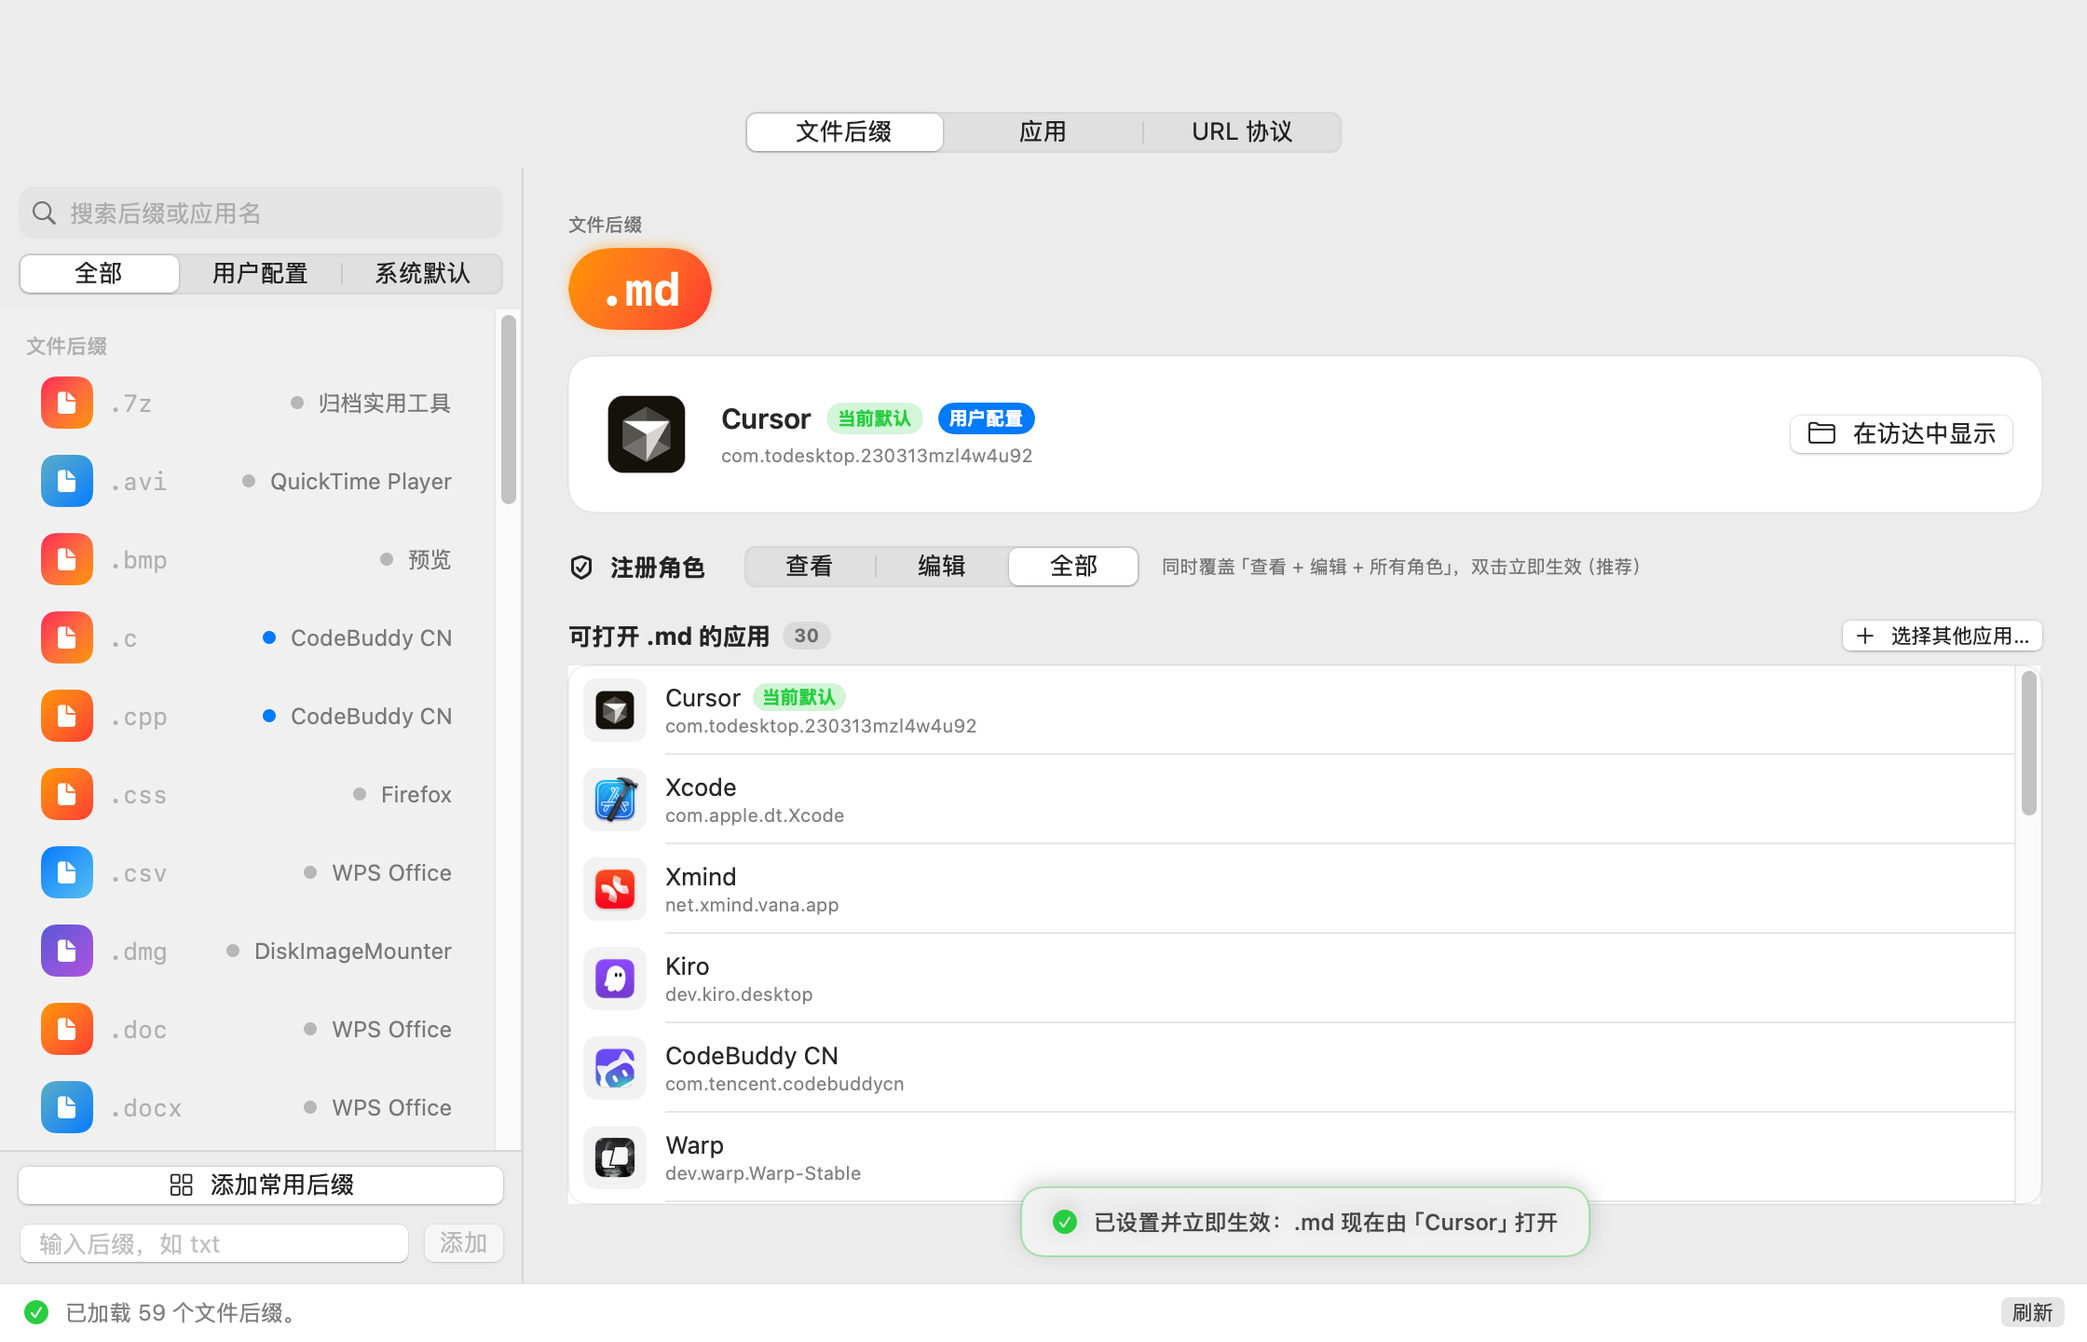
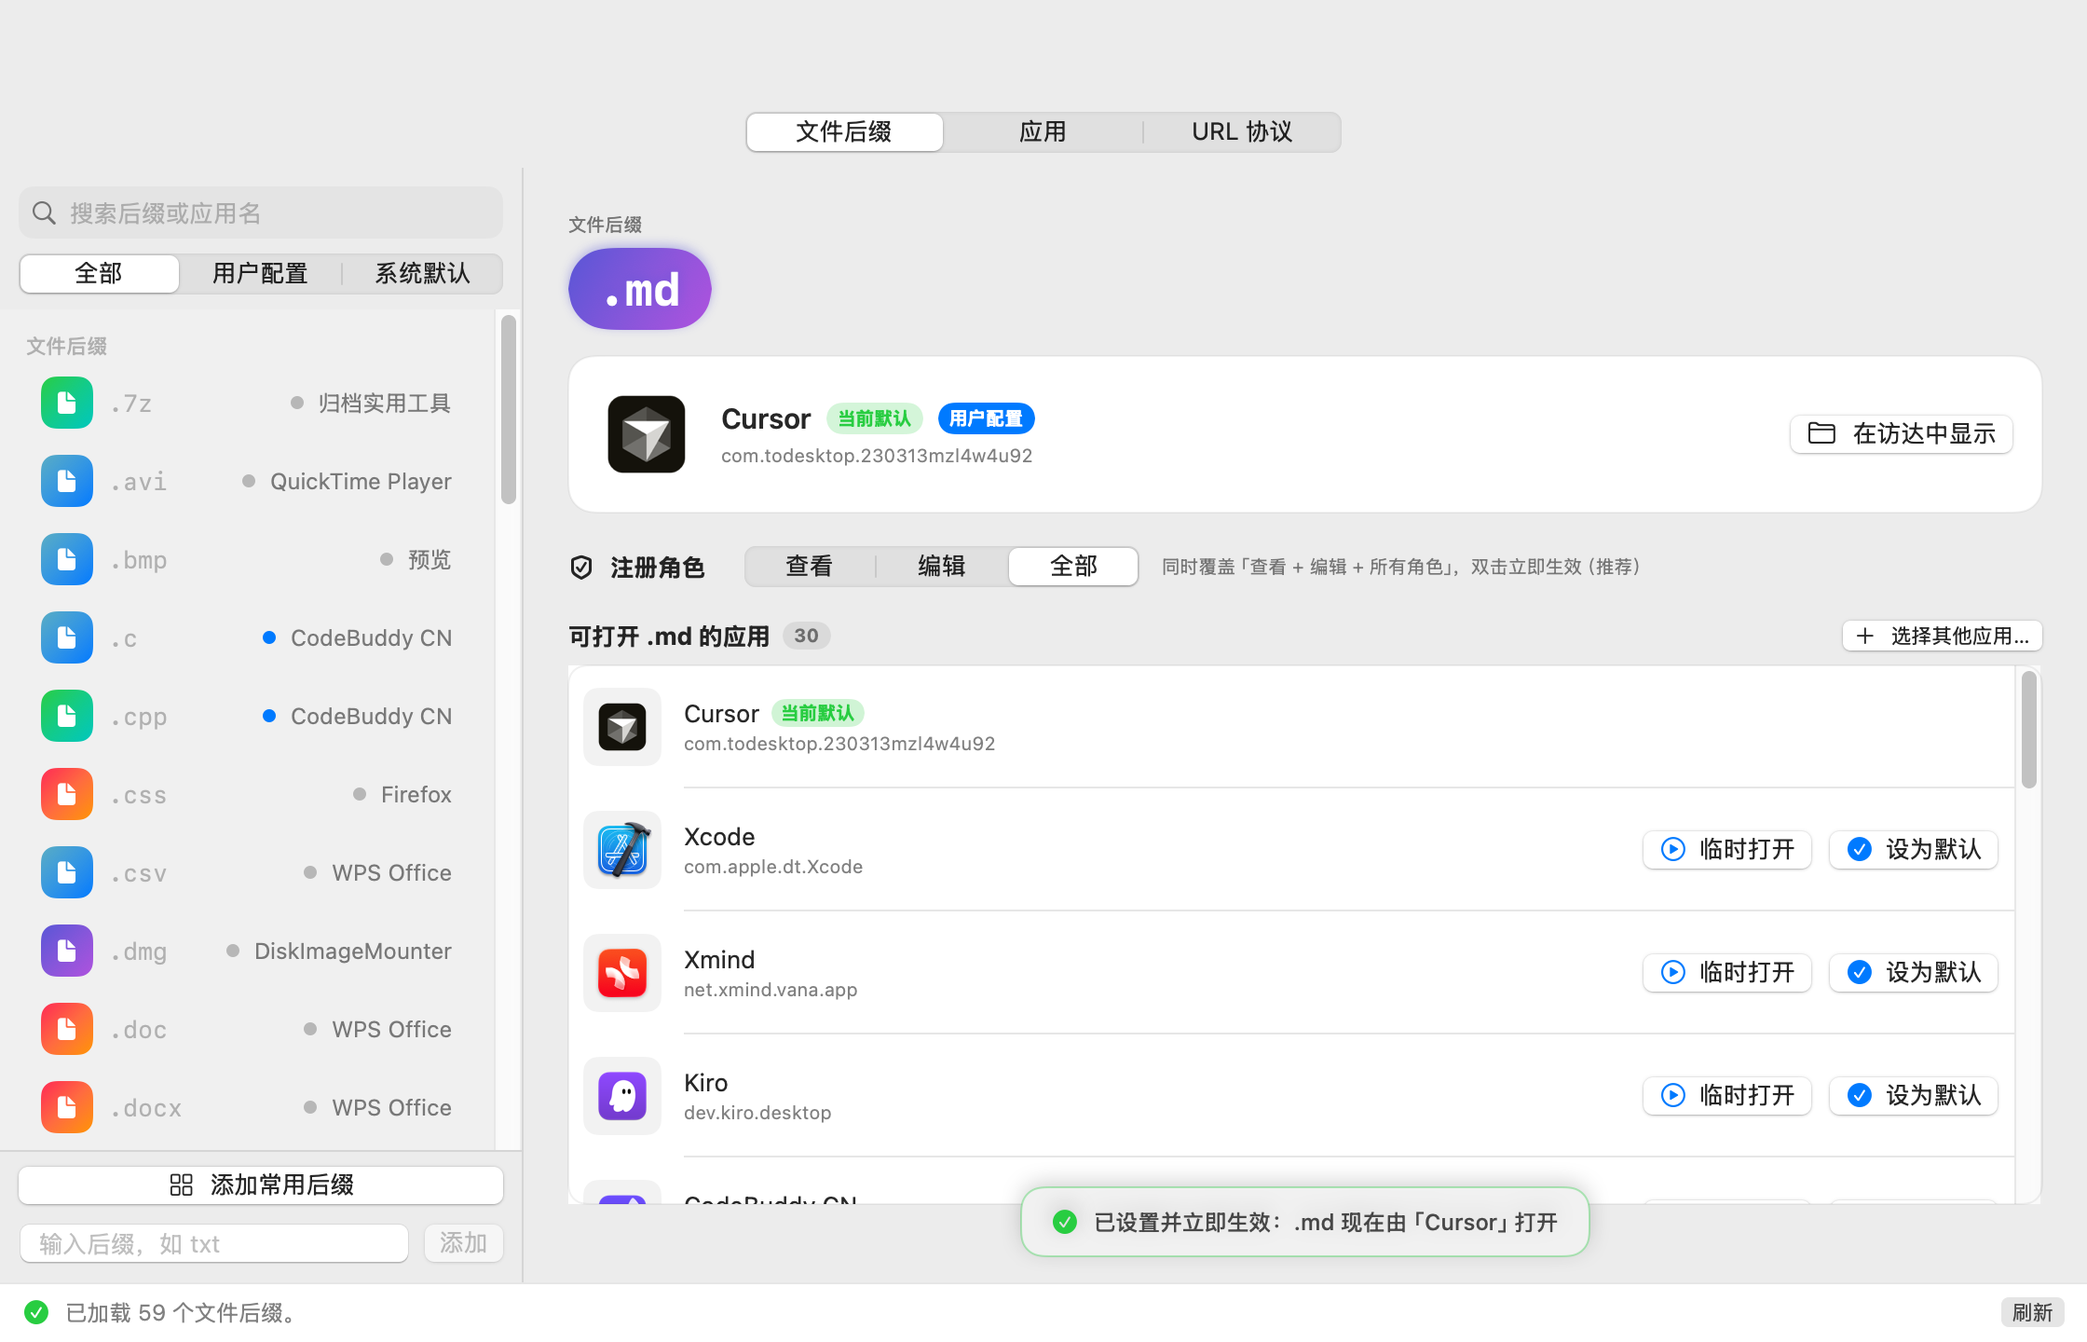
ui: always-visible row actions, inline add-extension, unified scheme page style
- Candidate rows (extensions & schemes, shared ActionCandidateRow) now
  always show 临时打开 + 设为默认 buttons — no hover required — with
  taller rows (32pt icons, more vertical padding).
- Apps tab: add-extension is inline (label + text field + Add under the
  header card, Enter submits); the alert dialog is gone.
- Schemes tab detail mirrors the extensions detail: capsule title,
  current-handler card with 恢复系统默认 + Show in Finder, candidate
  rows with per-row Try/Set actions; bottom action bar removed.
- Screenshot retaken to match.

diff --git a/Sources/App/SchemesView.swift b/Sources/App/SchemesView.swift
@@ -20,7 +20,6 @@ struct SchemesView: View {
     @State private var selected: String?
     @State private var handlers: [String: AppInfo] = [:]
     @State private var candidates: [AppInfo] = []
-    @State private var pickedID: String?
     @State private var busy = false
     @State private var query = ""
     @State private var refreshSpin: Double = 0
@@ -120,7 +119,7 @@ struct SchemesView: View {
         }
     }
 
-    // MARK: - 详情
+    // MARK: - 详情（与文件后缀页同一风格：胶囊标题 + 当前处理卡片 + 常显操作候选行）
 
     private var detailArea: some View {
         VStack(alignment: .leading, spacing: 16) {
@@ -128,7 +127,6 @@ struct SchemesView: View {
                 header(scheme: scheme)
                 candidatesSection(scheme: scheme)
                 Spacer(minLength: 0)
-                actionBar(scheme: scheme)
             } else {
                 Spacer()
                 ContentUnavailableView {
@@ -142,7 +140,7 @@ struct SchemesView: View {
     }
 
     private func header(scheme: String) -> some View {
-        VStack(alignment: .leading, spacing: 10) {
+        VStack(alignment: .leading, spacing: 12) {
             Text("\(scheme):")
                 .textSelection(.enabled)
                 .font(.system(size: 24, weight: .bold, design: .monospaced))
@@ -153,15 +151,16 @@ struct SchemesView: View {
                     LinearGradient(colors: [.teal, .blue], startPoint: .topLeading, endPoint: .bottomTrailing),
                     in: Capsule()
                 )
+
             if let current {
-                HStack(spacing: 10) {
+                HStack(spacing: 12) {
                     if let icon = current.icon {
                         Image(nsImage: icon)
-                            .resizable().scaledToFit().frame(width: 30, height: 30)
+                            .resizable().scaledToFit().frame(width: 40, height: 40)
                     }
-                    VStack(alignment: .leading, spacing: 1) {
-                        HStack(spacing: 6) {
-                            Text(current.name).font(.headline)
+                    VStack(alignment: .leading, spacing: 3) {
+                        HStack(spacing: 8) {
+                            Text(current.name).font(.title3.bold())
                             Text(i18n.t(.currentBadge))
                                 .font(.caption2.weight(.bold))
                                 .foregroundStyle(.green)
@@ -173,16 +172,24 @@ struct SchemesView: View {
                             .font(.caption).foregroundStyle(.secondary)
                     }
                     Spacer()
-                    if let url = current.url {
-                        Button { NSWorkspace.shared.activateFileViewerSelecting([url]) } label: {
-                            Label(i18n.t(.showInFinder), systemImage: "folder")
+                    VStack(spacing: 8) {
+                        Button {
+                            Task { await restore(scheme: scheme) }
+                        } label: {
+                            Label(i18n.t(.schemeUnset), systemImage: "arrow.uturn.backward")
                         }
                         .buttonStyle(.bordered)
+                        if let url = current.url {
+                            Button { NSWorkspace.shared.activateFileViewerSelecting([url]) } label: {
+                                Label(i18n.t(.showInFinder), systemImage: "folder")
+                            }
+                            .buttonStyle(.bordered)
+                        }
                     }
                 }
-                .padding(12)
-                .background(Color(nsColor: .controlBackgroundColor), in: RoundedRectangle(cornerRadius: 12))
-                .overlay { RoundedRectangle(cornerRadius: 12).stroke(.separator.opacity(0.5)) }
+                .padding(14)
+                .background(Color(nsColor: .controlBackgroundColor), in: RoundedRectangle(cornerRadius: 14))
+                .overlay { RoundedRectangle(cornerRadius: 14).stroke(.separator.opacity(0.5)) }
             } else {
                 Label(i18n.t(.schemeNoHandler), systemImage: "exclamationmark.triangle")
                     .foregroundStyle(.secondary)
@@ -193,45 +200,41 @@ struct SchemesView: View {
 
     private func candidatesSection(scheme: String) -> some View {
         VStack(alignment: .leading, spacing: 8) {
-            Text(i18n.t(.schemeCandidates, "\(scheme):"))
-                .font(.headline)
+            HStack(spacing: 6) {
+                Text(i18n.t(.schemeCandidates, "\(scheme):"))
+                    .font(.headline)
+                if !candidates.isEmpty {
+                    Text("\(candidates.count)")
+                        .font(.caption.weight(.bold))
+                        .foregroundStyle(.secondary)
+                        .padding(.horizontal, 6)
+                        .padding(.vertical, 1)
+                        .background(Capsule().fill(.secondary.opacity(0.15)))
+                }
+                Spacer()
+            }
             if candidates.isEmpty {
                 Text(i18n.t(.candidatesEmpty, "\(scheme):"))
                     .font(.callout).foregroundStyle(.secondary)
+                    .fixedSize(horizontal: false, vertical: true)
+                    .frame(maxWidth: .infinity, alignment: .leading)
                     .padding(12)
                     .background(RoundedRectangle(cornerRadius: 10).fill(.quaternary.opacity(0.4)))
             } else {
-                List(selection: $pickedID) {
+                List {
                     ForEach(candidates) { app in
-                        CandidateRow(app: app, isCurrent: app.bundleID == current?.bundleID)
-                            .tag(app.id)
+                        ActionCandidateRow(
+                            app: app,
+                            isCurrent: app.bundleID == current?.bundleID,
+                            onPreview: { preview(app, scheme: scheme) },
+                            onSetDefault: { Task { await apply(app, scheme: scheme) } }
+                        )
                     }
                 }
                 .listStyle(.plain)
-                .frame(minHeight: 160, maxHeight: .infinity)
+                .frame(minHeight: 180, maxHeight: .infinity)
                 .overlay { RoundedRectangle(cornerRadius: 10).stroke(.separator.opacity(0.6)) }
             }
-        }
-    }
-
-    private func actionBar(scheme: String) -> some View {
-        HStack(spacing: 12) {
-            Button {
-                Task { await restore(scheme: scheme) }
-            } label: {
-                Label(i18n.t(.schemeUnset), systemImage: "arrow.uturn.backward")
-            }
-            .buttonStyle(.bordered)
-            .disabled(busy)
-            Spacer()
-            Button {
-                Task { await apply(scheme: scheme) }
-            } label: {
-                Label(i18n.t(.setDefault), systemImage: "checkmark.circle")
-            }
-            .buttonStyle(.borderedProminent)
-            .keyboardShortcut(.defaultAction)
-            .disabled(pickedID == nil || busy)
         }
     }
 
@@ -254,21 +257,39 @@ struct SchemesView: View {
 
     @MainActor
     private func reloadCandidates() async {
-        pickedID = nil
         guard let selected else { candidates = []; return }
         candidates = LaunchServices.schemeHandlers(selected)
     }
 
+    /// 临时打开：用该应用打开一个 scheme:// 测试链接，不修改任何设置。
+    private func preview(_ app: AppInfo, scheme: String) {
+        guard let appURL = app.url, let url = URL(string: "\(scheme)://defaultapp-try") else { return }
+        let configuration = NSWorkspace.OpenConfiguration()
+        configuration.activates = true
+        NSWorkspace.shared.open([url], withApplicationAt: appURL, configuration: configuration) { _, error in
+            Task { @MainActor in
+                if let error {
+                    self.state.overrideStatus(I18n.shared.t(.previewFailed, error.localizedDescription), success: false)
+                } else {
+                    self.showRowToast(app.name)
+                }
+            }
+        }
+    }
+
+    private func showRowToast(_ appName: String) {
+        state.overrideStatus(i18n.t(.previewOpened, appName), success: true)
+    }
+
     @MainActor
-    private func apply(scheme: String) async {
-        guard let bid = pickedID else { return }
+    private func apply(_ app: AppInfo, scheme: String) async {
         busy = true
         defer { busy = false }
-        guard LaunchServices.setSchemeHandler(bundleID: bid, scheme: scheme) else { return }
+        guard LaunchServices.setSchemeHandler(bundleID: app.bundleID, scheme: scheme) else { return }
         Thread.sleep(forTimeInterval: 0.3)
         let handler = LaunchServices.schemeDefaultHandler(scheme)
         handlers[scheme] = handler
-        let name = handler?.name ?? bid
+        let name = handler?.name ?? app.bundleID
         state.refresh()
         state.overrideStatus(i18n.t(.schemeSetDone, "\(scheme):", name))
         await reloadCandidates()

diff --git a/Sources/App/DetailView.swift b/Sources/App/DetailView.swift
@@ -280,7 +280,7 @@ struct DetailView: View {
             } else {
                 List {
                     ForEach(candidates) { app in
-                        CandidateActionRow(
+                        ActionCandidateRow(
                             app: app,
                             isCurrent: app.bundleID == current?.bundleID,
                             onPreview: { preview(app) },
@@ -460,29 +460,28 @@ private struct ToastView: View {
     }
 }
 
-// MARK: - 候选行（含悬停操作）
+// MARK: - 候选行（常显操作）
 
-/// 详情页候选行：悬停时浮现「临时打开」与「设为默认」操作。
-/// 当前默认行只展示徽标，不提供操作。
-private struct CandidateActionRow: View {
+/// 候选行：「临时打开」与「设为默认」按钮常显（感知明确），行高充裕。
+/// 文件后缀页与 URL 协议页共用，保持两页风格一致。
+struct ActionCandidateRow: View {
     let app: AppInfo
     let isCurrent: Bool
-    let onPreview: () -> Void
+    var onPreview: (() -> Void)?
     let onSetDefault: () -> Void
     @Environment(I18n.self) private var i18n
-    @State private var hovered = false
 
     var body: some View {
-        HStack(spacing: 10) {
+        HStack(spacing: 12) {
             if let icon = app.icon {
                 Image(nsImage: icon)
                     .resizable()
                     .scaledToFit()
-                    .frame(width: 26, height: 26)
-                    .padding(4)
-                    .background(RoundedRectangle(cornerRadius: 7).fill(.quaternary.opacity(0.5)))
+                    .frame(width: 32, height: 32)
+                    .padding(5)
+                    .background(RoundedRectangle(cornerRadius: 8).fill(.quaternary.opacity(0.5)))
             }
-            VStack(alignment: .leading, spacing: 1) {
+            VStack(alignment: .leading, spacing: 2) {
                 HStack(spacing: 6) {
                     Text(app.name).font(.body)
                     if isCurrent {
@@ -501,25 +500,24 @@ private struct CandidateActionRow: View {
             }
             Spacer()
             if !isCurrent {
-                HStack(spacing: 8) {
-                    Button(action: onPreview) {
-                        Image(systemName: "play.circle")
+                HStack(spacing: 10) {
+                    if let onPreview {
+                        Button(action: onPreview) {
+                            Label(i18n.t(.previewShort), systemImage: "play.circle")
+                        }
+                        .buttonStyle(.bordered)
+                        .controlSize(.regular)
+                        .help(i18n.t(.previewTip))
                     }
-                    .buttonStyle(.bordered)
-                    .controlSize(.small)
-                    .help(i18n.t(.previewTip))
                     Button(action: onSetDefault) {
                         Label(i18n.t(.setDefaultShort), systemImage: "checkmark.circle.fill")
                     }
                     .buttonStyle(.borderedProminent)
-                    .controlSize(.small)
+                    .controlSize(.regular)
                 }
-                .opacity(hovered ? 1 : 0)
-                .animation(.snappy(duration: 0.15), value: hovered)
             }
         }
-        .padding(.vertical, 3)
+        .padding(.vertical, 8)
         .contentShape(Rectangle())
-        .onHover { hovered = $0 }
     }
 }

diff --git a/Sources/App/AppsView.swift b/Sources/App/AppsView.swift
@@ -11,7 +11,6 @@ struct AppsView: View {
     @State private var selectedID: String?
     @State private var query = ""
     @State private var sort: AppSort = .name
-    @State private var showAddExt = false
     @State private var refreshSpin: Double = 0
     @State private var newExt = ""
 
@@ -153,7 +152,6 @@ struct AppsView: View {
     private func confirmAdd(for app: AppRelation) {
         let raw = newExt
         newExt = ""
-        showAddExt = false
         let cleaned = AppState.sanitize(raw)
         state.addExtension(raw)
         guard !cleaned.isEmpty else { return }
@@ -204,12 +202,6 @@ struct AppsView: View {
                     }
                     Spacer()
                     VStack(spacing: 8) {
-                        Button {
-                            showAddExt = true
-                        } label: {
-                            Label(i18n.t(.addExtButton), systemImage: "plus.circle")
-                        }
-                        .buttonStyle(.bordered)
                         if let url = app.info.url {
                             Button {
                                 NSWorkspace.shared.activateFileViewerSelecting([url])
@@ -228,16 +220,22 @@ struct AppsView: View {
                 .overlay {
                     RoundedRectangle(cornerRadius: 14).stroke(.separator.opacity(0.5))
                 }
-                .alert(i18n.t(.addExtAlertTitle), isPresented: $showAddExt) {
-                    TextField(i18n.t(.addPlaceholder), text: $newExt)
+
+                // 内联添加后缀：就地输入回车即生效，不再弹框
+                HStack(spacing: 10) {
+                    Text(i18n.t(.addExtInlineLabel, app.info.name))
+                        .font(.callout)
+                        .foregroundStyle(.secondary)
+                    TextField(i18n.t(.addExtInlinePlaceholder), text: $newExt)
+                        .textFieldStyle(.roundedBorder)
+                        .frame(maxWidth: 200)
                         .onSubmit { confirmAdd(for: app) }
                     Button(i18n.t(.add)) { confirmAdd(for: app) }
                         .keyboardShortcut(.defaultAction)
                         .disabled(newExt.trimmingCharacters(in: .whitespaces).isEmpty)
-                    Button(i18n.t(.cancel), role: .cancel) { newExt = "" }
-                } message: {
-                    Text(i18n.t(.addExtAlertMsg, app.info.name))
+                    Spacer()
                 }
+                .padding(.horizontal, 4)
 
                 if !app.owns.isEmpty {
                     section(title: i18n.t(.appOwnsTitle, app.info.name)) {

diff --git a/Sources/App/I18n.swift b/Sources/App/I18n.swift
@@ -51,7 +51,8 @@ final class I18n {
         case addExtButton, addExtAlertTitle, addExtAlertMsg, cancel
         case ghButton, ghTip, ghTipNew, ghTipUnknown
         case tabSchemes, schemesIntro, schemeNoHandler, schemeCandidates, schemeUnset, schemeRestoreDone, schemeSetDone
-        case setDefaultShort, previewTip, previewOpened, previewFailed
+        case setDefaultShort, previewShort, previewTip, previewOpened, previewFailed
+        case addExtInlineLabel, addExtInlinePlaceholder
     }
 
     static let shared = I18n()
@@ -210,7 +211,10 @@ final class I18n {
         .schemeRestoreDone: [.zh: "已将 %@ 交还给系统默认", .en: "Restored %@ to the system default"],
         .schemeSetDone: [.zh: "%@ 现在由「%@」处理，立即生效", .en: "%@: now handled by %@, effective immediately"],
         .setDefaultShort: [.zh: "设为默认", .en: "Set Default"],
+        .previewShort: [.zh: "临时打开", .en: "Try"],
         .previewTip: [.zh: "用这个应用临时打开试试（不更改默认设置）", .en: "Try opening with this app (your default is unchanged)"],
+        .addExtInlineLabel: [.zh: "给「%@」添加后缀", .en: "Add an extension for %@"],
+        .addExtInlinePlaceholder: [.zh: "如 abc（回车添加并设为其默认）", .en: "e.g. abc (Enter adds it as default)"],
         .previewOpened: [.zh: "已用「%@」临时打开测试文件，默认设置未更改", .en: "Opened a test file with %@ — defaults unchanged"],
         .previewFailed: [.zh: "临时打开失败：%@", .en: "Failed to open: %@"],
     ]
